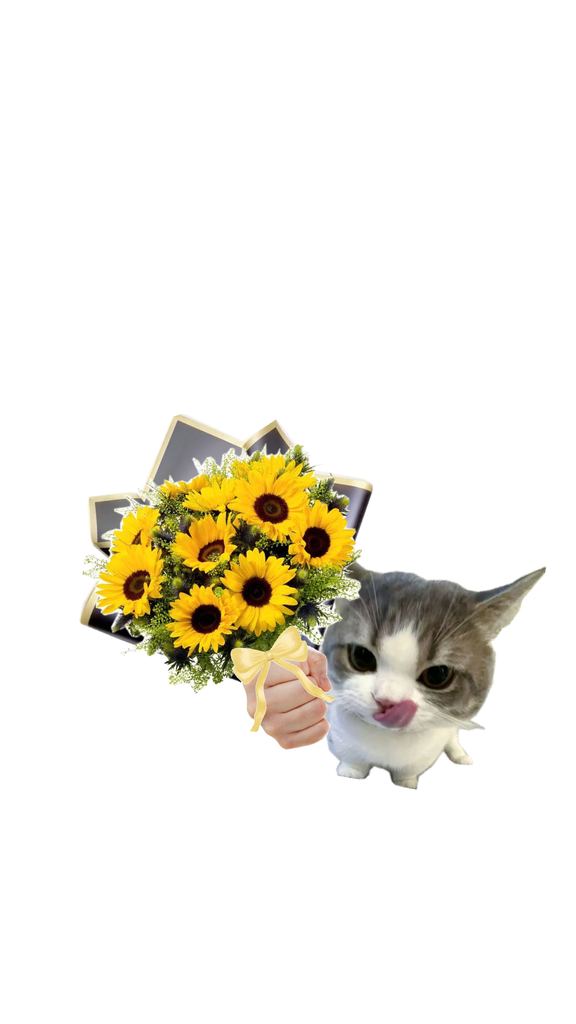
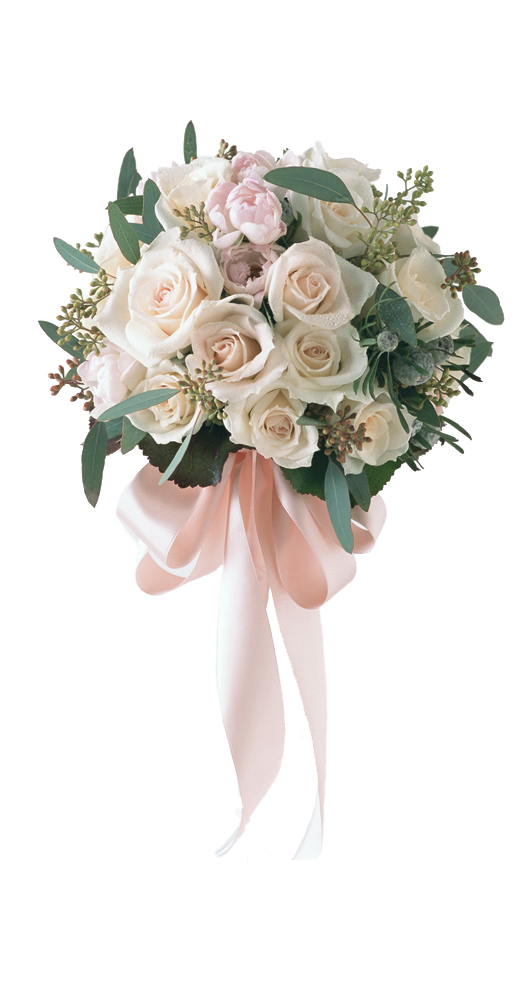
Refactor code structure for improved readability and maintainability

diff --git a/js/photo.js b/js/photo.js
@@ -23,11 +23,11 @@ const PhotoBoothData = {
     // shown again in the lightbox) — edit these to whatever each
     // photo actually means to you.
     photos: [
-        { src: Navigation.asset('assets/images/photo-1.svg'), alt: 'ภาพความทรงจำ 1', caption: 'ความทรงจำแรกของเรา' },
-        { src: Navigation.asset('assets/images/photo-2.svg'), alt: 'ภาพความทรงจำ 2', caption: 'วันที่เราหัวเราะด้วยกัน' },
-        { src: Navigation.asset('assets/images/photo-3.svg'), alt: 'ภาพความทรงจำ 3', caption: 'และวันนี้ ที่ยังมีกันและกัน' },
-        { src: Navigation.asset('assets/images/photo-4.svg'), alt: 'ภาพความทรงจำ 4', caption: 'ทุกช่วงเวลาที่เดินไปด้วยกัน' },
-        { src: Navigation.asset('assets/images/photo-5.svg'), alt: 'ภาพความทรงจำ 5', caption: 'และอีกหลายวันดีๆ ที่กำลังจะมาถึง' },
+        { src: Navigation.asset('assets/images/pic2.jpg'), alt: 'ภาพความทรงจำ 1', caption: 'ความทรงจำแรกของเรา' },
+        { src: Navigation.asset('assets/images/pic3.jpg'), alt: 'ภาพความทรงจำ 2', caption: 'วันที่เราหัวเราะด้วยกัน' },
+        { src: Navigation.asset('assets/images/pic4.jpg'), alt: 'ภาพความทรงจำ 3', caption: 'และวันนี้ ที่ยังมีกันและกัน' },
+        { src: Navigation.asset('assets/images/pic5.jpg'), alt: 'ภาพความทรงจำ 4', caption: 'ทุกช่วงเวลาที่เดินไปด้วยกัน' },
+        { src: Navigation.asset('assets/images/pic6.jpg'), alt: 'ภาพความทรงจำ 5', caption: 'และอีกหลายวันดีๆ ที่กำลังจะมาถึง' },
     ],
     // How each printed postcard is nudged away from dead-center
     // so the 5 of them fan out instead of landing in one exact

diff --git a/index.html b/index.html
@@ -43,7 +43,7 @@
             <div class="page-content" data-page-content>
 
                 <div class="illustration" data-reveal>
-                    <img src="assets/icons/lock-illustration.svg" alt="กุญแจน่ารักที่ล็อกอยู่">
+                    <img src="assets/images/pic1.jpg" alt="pic1">
                 </div>
 
                 <h1 class="page-title" data-reveal data-reveal-delay="80">ใส่รหัสลับ คำใบ้ "วันครบรอบ"</h1>
